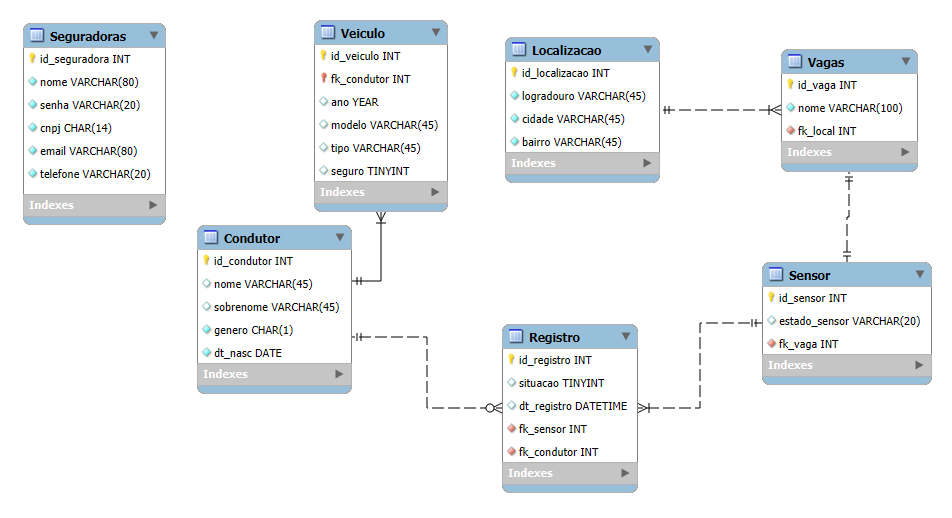
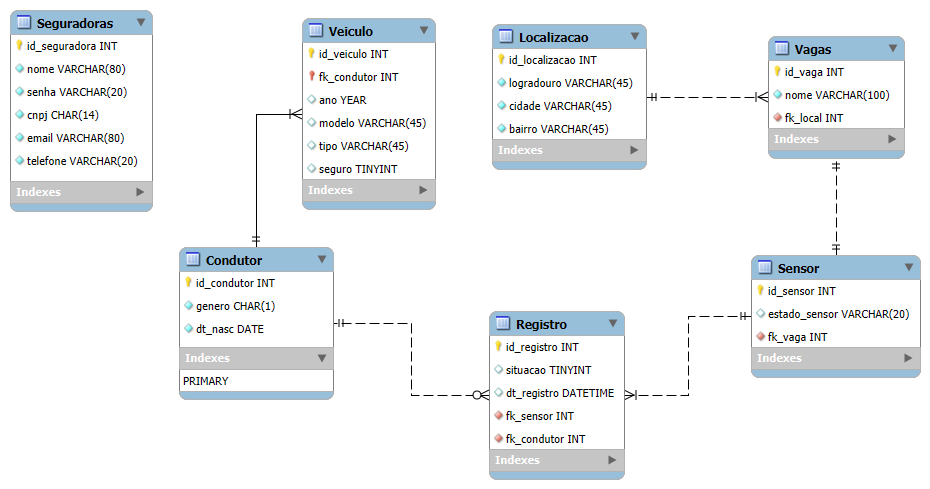
Alteração na modelagem e inclusão do select

diff --git a/Arquitetura_Computacional/dat-acqu-ino/index.html b/Arquitetura_Computacional/dat-acqu-ino/index.html
@@ -80,7 +80,7 @@
                         paginacao[endpoint] = 0;
                     }
                     if (tempo[endpoint] == null) {
-                        tempo[endpoint] = 0;
+                            [endpoint] = 0;
                     }
 
                     var ultimaPaginacao = paginacao[endpoint];
